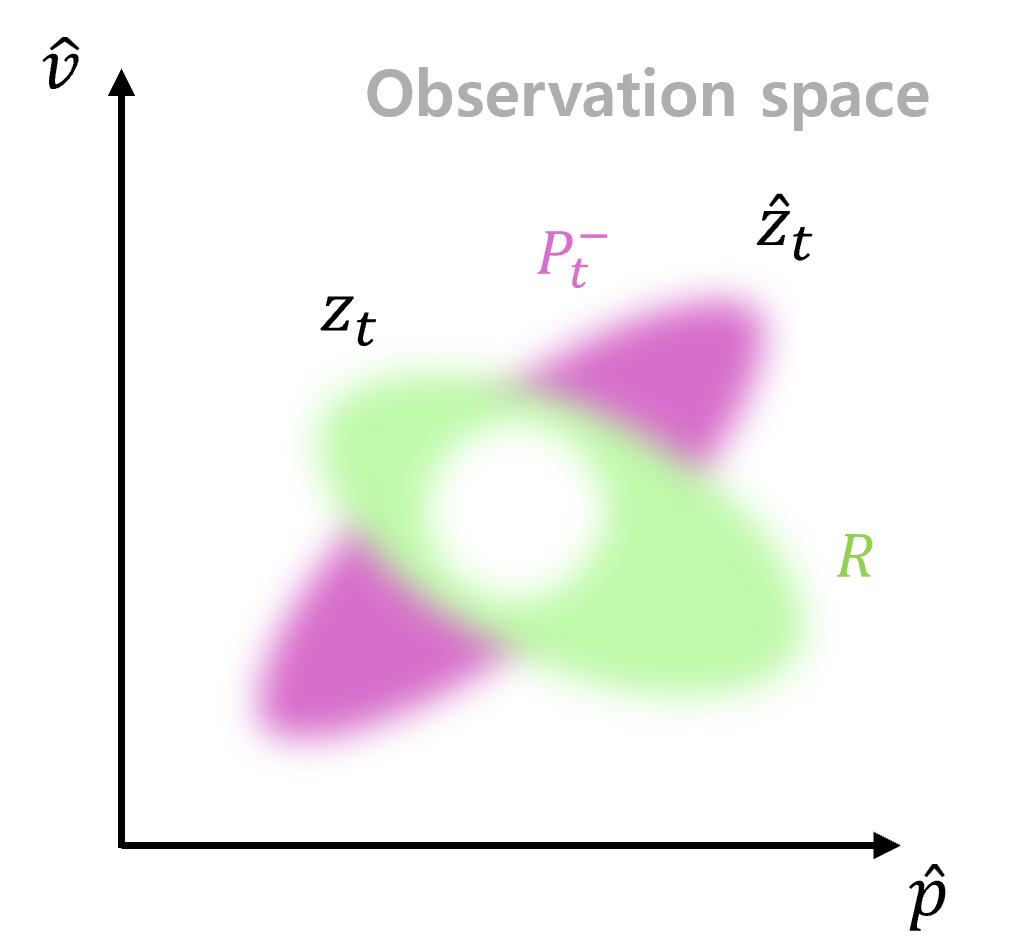
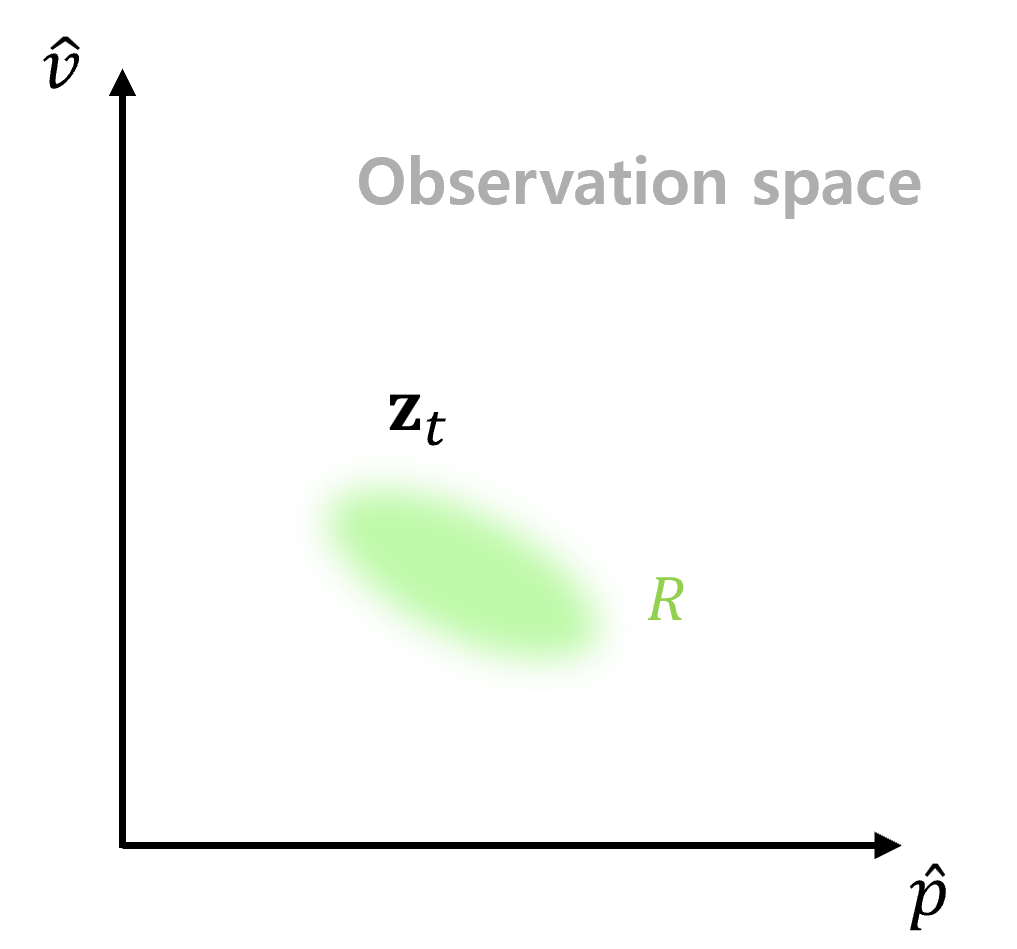
all

diff --git a/_posts/Math/Signal_System/2026-04-04-Kalman_Filter3.md b/_posts/Math/Signal_System/2026-04-04-Kalman_Filter3.md
@@ -1,5 +1,5 @@
 ---
-title: "[신호 및 시스템] 칼만 필터 3 - 수학적 원리"
+title: "[신호 및 시스템] 칼만 필터 3 - 확률 분포 관점"
 date: 2026-04-01 12:00:00 +/-TTTT
 categories: [Mathmatics, 신호 및 시스템]
 tags: [신호 및 시스템]
@@ -12,38 +12,48 @@ author: sunho
 
 ## 자동차 주행 예시
 
-자동차에 가속도 $a$가 가해지며, 우리는 자동차의 현재 위치 $p$와 속도 $v$를 알고 싶다고 가정해 보자.
+엑셀을 통해 자동차에 가속도 $a$가 가해지며, 우리는 자동차의 현재 위치 $p$와 속도 $v$를 알고 싶다고 가정해 보자.
+<br>
+그리고 자동차에 GPS와 속도계가 모두 장착되어 있어, 센서를 통해 위치 정보와 속도 정보를 함께 측정할 수 있다고 해보자.
 
 ![fig1](Math/Signal_System/Kalman_Filter3-1.png){: style="display:block; margin:0 auto; width:70%;"}
 
 이 시스템에서 우리가 추정해야 할 상태 벡터 $\mathbf{x}_t$와 시스템에 가해지는 제어 입력 $u_t$는 다음과 같이 정의된다.
 
 $$
-u_t=a~~,~~\mathbf{x}_t=\begin{bmatrix}p_t\\v_t\end{bmatrix}
+u_t=a~~,~~\hat{\mathbf{x}}_t=\begin{bmatrix}\hat{p}_t\\\hat{v}_t\end{bmatrix}
+\tag{1}
 $$
 
 뉴턴의 운동 법칙에 따라, $\Delta t$동안 변화한 현재 위치 $p_t$와 속도 $v_t$ 방정식은 다음과 같이 정의된다.
 
 $$
-p_t=p_{t-1}+v_{t-1}\Delta t+\frac{1}{2}a\Delta t^2
+\begin{aligned}
+\hat{p}_t&=\hat{p}_{t-1}+\hat{v}_{t-1}\Delta t+\frac{1}{2}a\Delta t^2
+\\
+\hat{v}_t&=\hat{v}_{t-1}+a\Delta t
+\end{aligned}
+\tag{2}
 $$
 
-$$
-v_t=v_{t-1}+a\Delta t
-$$
-
-이 물리 방정식을 칼만 필터의 예측 수식인 $\hat{x}\_k^-=A\hat{x}\_{k-1}+Bu\_k$ 형태의 행렬식으로 변환하면 다음과 같다.
+이 물리 방정식을 하나의 행렬로 표현하면 다음과 같은 상태 방정식으로 나타낼 수 있다.
 
 $$
-\begin{bmatrix}p_t\\v_t\end{bmatrix}
-=\begin{bmatrix}1&\Delta t\\0&1\end{bmatrix}\begin{bmatrix}p_{t-1}\\v_{t-1}\end{bmatrix}
+\hat{\mathbf{x}}_t=A\hat{\mathbf{x}}_{t-1}+Bu_t
+~~\rightarrow~~
+\begin{bmatrix}\hat{p}_t\\\hat{v}_t\end{bmatrix}
+=\begin{bmatrix}1&\Delta t\\0&1\end{bmatrix}\begin{bmatrix}\hat{p}_{t-1}\\\hat{v}_{t-1}\end{bmatrix}
 +\begin{bmatrix}\frac{1}{2}\Delta t^2\\\Delta t\end{bmatrix}a
+\tag{3}
 $$
 
-또한 만약 자동차에 GPS와 속도계가 모두 장착되어 있어 센서가 위치 정보와 속도 정보를 함께 알려준다면, 측정값 $\mathbf{z}_t$는 상태 벡터와 동일한 2차원 벡터가 된다 이를 관측 수식 $z_k = Hx_k$으로 나타내면 다음과 같다.
+그리고 측정값 또한 다음과 같은 관측 방정식으로 나타낼 수 있다.
 
 $$
-\mathbf{z}_t=\begin{bmatrix}1&0\\0&1\end{bmatrix}\begin{bmatrix}p_t\\v_t\end{bmatrix}
+\hat{\mathbf{z}}_t=H\hat{\mathbf{x}}_t^-
+~~\rightarrow~~
+\mathbf{z}_t=\begin{bmatrix}1&0\\0&1\end{bmatrix}\begin{bmatrix}\hat{p}_t\\\hat{v}_t\end{bmatrix}
+\tag{4}
 $$
 
 전체적인 시스템의 데이터 흐름을 블록도로 나타내면 아래와 같다.
@@ -52,29 +62,44 @@ $$
 
 ### 예측 단계
 
-실제 주행 환경에서는 타이어의 미끄러짐, 바람 등 모델에 반영되지 않은 외란이 존재한다. 따라서 다음 시점의 상태를 예측할 때, 자동차의 위치와 속도는 단순히 점에서 점으로 이동하는 것이 아니라 (아래의 왼쪽 그림), 불확실성을 동반한 확률 분포 형태로 이동한다. (아래의 오른쪽 그림)
+실제 주행 환경에서는 타이어의 미끄러짐, 바람 등 모델에 반영되지 않은 외란이 존재한다. 
+<br>
+따라서 모델을 통해 예측한 자동차의 상태는 하나의 점이 될 수 없으며, 아래의 오른쪽 그림과 같이 오차 범위를 가지는 확률 분포 형태로 나타나게 된다.
 
 ![fig3](Math/Signal_System/Kalman_Filter3-3.png){: style="display:block; margin:0 auto; width:70%;"}
 
-이러한 불확실성이 추가되면서 예측의 오차 공분산은 $P_t^- = AP_{t-1}A^\top + Q$ 형태로 계산되어 불확실성 영역이 더욱 넓어지게 된다.
+위 그림을 보면 과거의 예측 상태 $\hat{\mathbf{x}}_{t-1}^-$보다 현재 예측한 상태 $\hat{\mathbf{x}}_{t}^-$의 불확실성이 더 커진 것을 확인할 수 있는데, 이는 매순간 모델이 알지 못하는 현실의 노이즈가 계속해서 누적되기 때문이다.
 
-이때 더해지는 프로세스 노이즈 공분산 행렬 $Q$는 다음과 같이 나타낼 수 있다.
+이러한 현상을 반영하여, 예측 단계에서 불확실성이 얼마나 커졌는지를 계산하는 수식이 아래의 오차 공분산 예측식이다.
+
+$$
+P_t^-=AP_{t-1}A^\top+Q_t
+\tag{5}
+$$
+
+이 식에서 기존의 오차 $AP_{t-1}A^\top$에 새롭게 더해지는 $Q_t$가 현실의 외란을 의미하는 프로세스 노이즈 공분산 (Process Noise Covariance)이다.
+<br>
+위치와 속도를 예측하는 현재 상황에서, $Q$는 다음과 같이 표현될 수 있다.
 
 $$
 Q=\begin{bmatrix}\Sigma_{pp}&\Sigma_{pv}\\\Sigma_{vp}&\Sigma_{vv}\end{bmatrix}
+\tag{6}
 $$
 
 ### 보정 단계
 
-센서로 측정한 값 $z_t$를 사용하기 전에, 먼저 우리가 추정한 prior state $\mathbf{x}_t^-$를 센서와 동일한 차원 (관측 공간)으로 변환해야 한다.
+센서의 측정값 $\mathbf{z}_t$를 사용하기 위해, 우리가 예측한 prior state $\hat{\mathbf{x}}_t^-$를 센서와 동일한 차원 (관측 공간)으로 변환해야 한다.
+<br>
+이를 위해 관측 행렬 $H$를 사용한다.
 
 $$
-\hat{\mathbf{z}}_t=H\mathbf{x}_t^-
+\hat{\mathbf{z}}_t=H\hat{\mathbf{x}}_t^-
+\tag{7}
 $$
 
 ![fig4](Math/Signal_System/Kalman_Filter3-4.png){: style="display:block; margin:0 auto; width:70%;"}
 
-실제 센서 측정값 역시 센서 자체의 물리적 노이즈를 포함하고 있다. 따라서 측정 노이즈 공분산 $R$을 가지는 확률 분포 (아래 그림의 초록색 타원) 형태로 존재하게 된다.
+실제 센서 측정값 역시 센서 자체의 물리적 노이즈를 포함하고 있기 때문에, 아래의 그림과 같이 확률 분포의 형태로 나타나게 된다.
 
 ![fig5](Math/Signal_System/Kalman_Filter3-5.png){: style="display:block; margin:0 auto; width:40%;"}
 